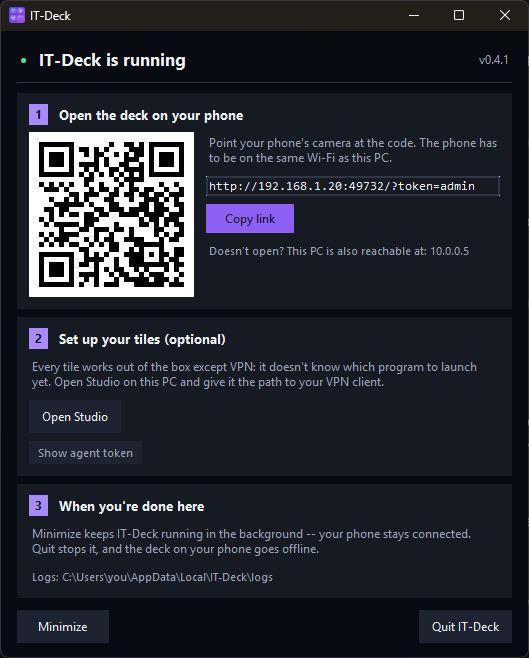
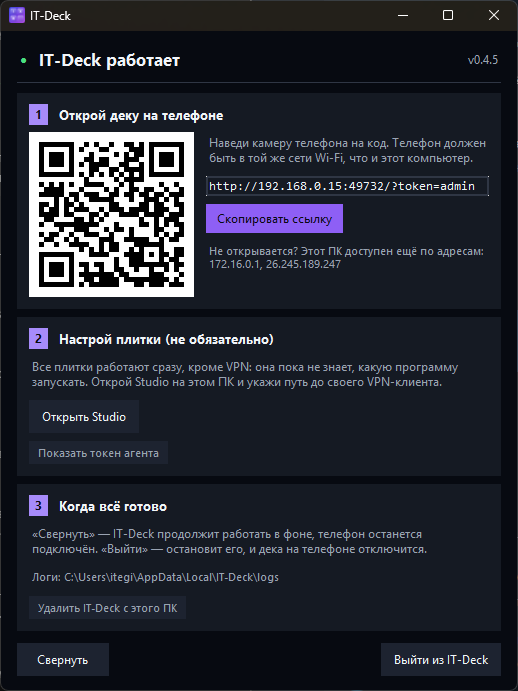
docs: retake the window screenshot, and cap the wait on the consent prompt
The README screenshot was taken from v0.4.4 and both READMEs had started
describing a button the picture above them did not have. Retaken from the
running v0.4.5 window -- same framing, same window, one row taller for the
new button -- with the alt text and the display width updated to match.

The firewall step's wait goes from 120 s to 60 s. It only ever waits for a
UAC prompt; a prompt nobody answers should not leave the dialog saying
"removing" for two full minutes, and the uninstall continues either way.

diff --git a/standalone/launcher.py b/standalone/launcher.py
@@ -1098,7 +1098,11 @@ def remove_firewall_rules(exe: Path) -> None:
         subprocess.run(
             ["powershell", "-NoProfile", "-ExecutionPolicy", "Bypass", "-Command", outer],
             capture_output=True,
-            timeout=120,
+            # Long enough to answer a consent prompt, short enough that
+            # ignoring one does not leave the dialog saying "removing" for
+            # two minutes. Whatever happens here, the uninstall carries on:
+            # the prompt is for the firewall rules and nothing else.
+            timeout=60,
             creationflags=getattr(subprocess, "CREATE_NO_WINDOW", 0),
         )
     except Exception:

diff --git a/README.ru.md b/README.ru.md
@@ -32,7 +32,7 @@ Python на этой машине.
    [последнего релиза](https://github.com/Itegin/it-deck/releases/latest) и
    запусти. Откроется это окно:
 
-   <img src="docs/screenshots/window.png" alt="Окно IT-Deck: шаг 1 — QR-код и ссылка для телефона, шаг 2 открывает Studio, шаг 3 объясняет «Свернуть» и «Выйти»" width="529">
+   <img src="docs/screenshots/window.png" alt="Окно IT-Deck: шаг 1 — QR-код и ссылка для телефона, шаг 2 открывает Studio, шаг 3 объясняет «Свернуть» и «Выйти» и предлагает удалить IT-Deck с ПК" width="518">
 
 2. **Наведи камеру телефона на QR-код** — телефон должен быть в той же сети
    Wi-Fi. Это единственный обязательный шаг: токен лежит в ссылке, телефон

diff --git a/README.md b/README.md
@@ -31,7 +31,7 @@ Python on that machine.
    [latest release](https://github.com/Itegin/it-deck/releases/latest) and
    run it. This window opens:
 
-   <img src="docs/screenshots/window.png" alt="The IT-Deck window: step 1 is a QR code and link for the phone, step 2 opens Studio, step 3 explains Minimize and Quit" width="529">
+   <img src="docs/screenshots/window.png" alt="The IT-Deck window: step 1 is a QR code and link for the phone, step 2 opens Studio, step 3 explains Minimize and Quit and offers to remove IT-Deck from the PC" width="518">
 
 2. **Point your phone's camera at the QR code**, on the same Wi-Fi. That is
    the only required step — the token is in the link, and the phone keeps it.
